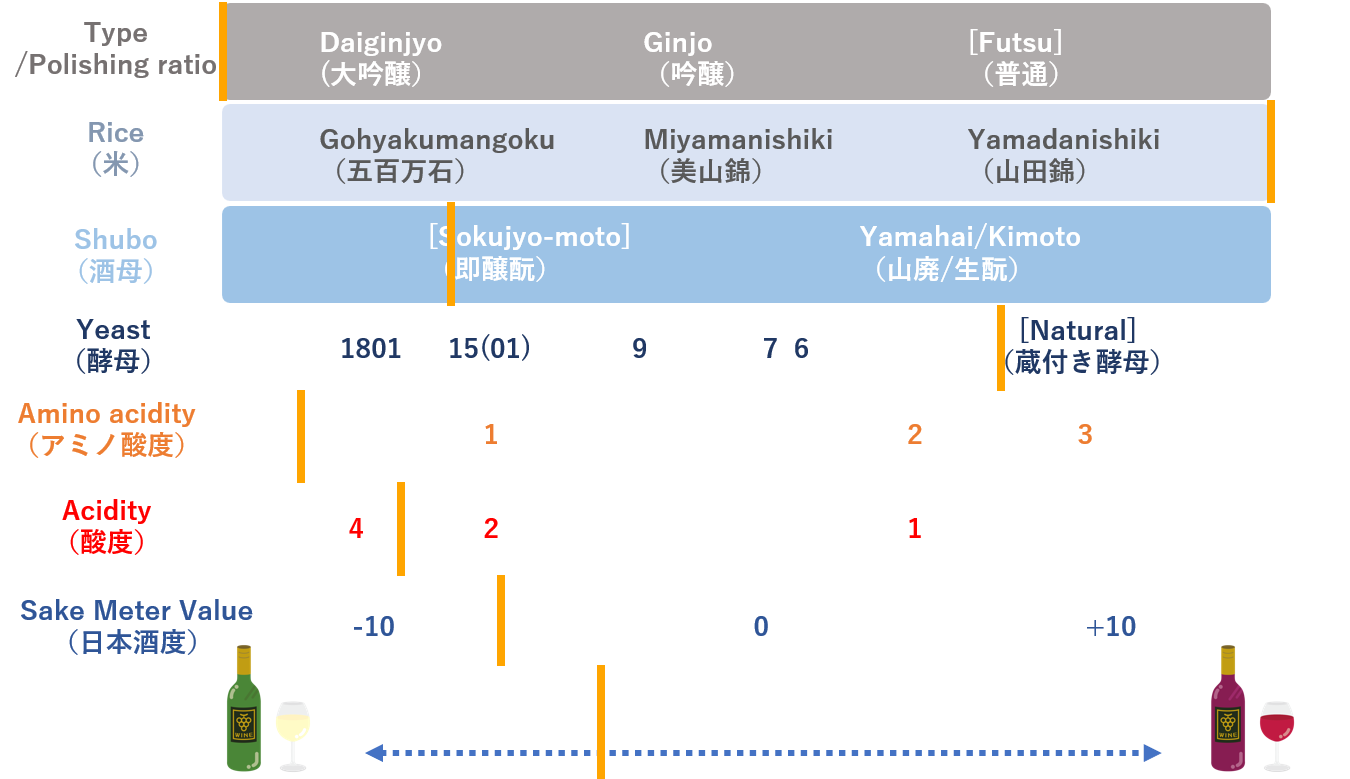
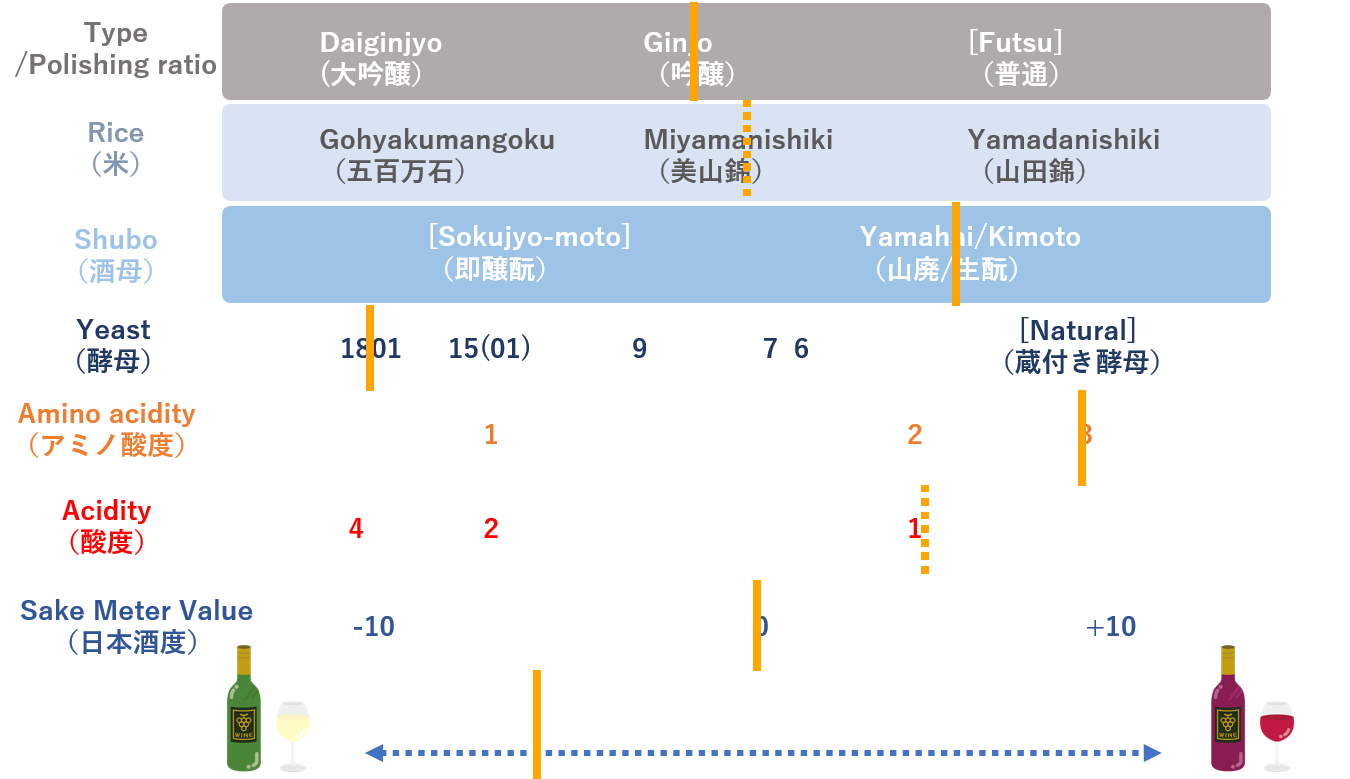
line alighmented

diff --git a/original-advanced-straightline-diagram-creation.py b/original-advanced-straightline-diagram-creation.py
@@ -1,13 +1,28 @@
 from PIL import Image, ImageDraw
 
-type = 76  # 15:大吟醸 45:吟醸 52:特別純米 60:純米 76:普通
-rice = 80  # 18:山田錦 50:美山錦 80:五百万石
-fstarter = 78  # 30:速醸酛 70:山廃 78:生酛
+saketype = 45  # 15:大吟醸 45:吟醸 52:特別純米 60:純米 76:普通
+saketype_line = "solid"
+
+rice = 50  # 18:山田錦 50:美山錦 80:五百万石
+rice_line ="dotted"
+
+fstarter = 70  # 30:速醸酛 70:山廃 78:生酛
+fstarter_line = "solid"
+
 yeast = 53  # 12:1801 23:15(01) 38:9 50:7 53:6 
-ForR = 33  # 0:Fruit 100:Rice
+yeast_line = "solid"
+
+ForR = 100  # 0:Fruit 100:Rice
+
 amino = 82  # 26:1 66:2 82:3
+amino_line = "solid"
+
 acid = 67  # 13:4 15:3 26:2 67:1 
+acid_line = "dotted"
+
 svm = 51  # 15:-10 51:0 86:10
+svm_line = "solid"
+
 DorS = 30  # 0:Dry 100:Sweet
 
 # ラインの一番左のピクセル
@@ -57,14 +72,14 @@ def draw_custom_lines(image_path, lines):
 
 # 描くラインをリストで提供
 lines = [
-    (av_line_start_left+type*av_line_add, 2, av_line_start_left+type*av_line_add, 100, "solid", 8),  # Dotted line from (start-tupple) to (end-tupple) with thickness 8
-    (av_line_start_left+rice*av_line_add, 100, av_line_start_left+rice*av_line_add, 202, "dotted", 8),
-    (av_line_start_left+fstarter*av_line_add, 202, av_line_start_left+fstarter*av_line_add, 305, "solid", 8), 
-    (av_line_start_left+yeast*av_line_add, 305, av_line_start_left+yeast*av_line_add, 398, "solid", 8),
+    (av_line_start_left+saketype*av_line_add, 2, av_line_start_left+saketype*av_line_add, 100, saketype_line, 8),  # Dotted line from (start-tupple) to (end-tupple) with thickness 8
+    (av_line_start_left+rice*av_line_add, 100, av_line_start_left+rice*av_line_add, 202, rice_line, 8),
+    (av_line_start_left+fstarter*av_line_add, 202, av_line_start_left+fstarter*av_line_add, 305, fstarter_line, 8), 
+    (av_line_start_left+yeast*av_line_add, 305, av_line_start_left+yeast*av_line_add, 398, yeast_line, 8),
     (av_line_start_left+ForR*av_line_add, 398, av_line_start_left+ForR*av_line_add, 515, "solid", 8),
-    (av_line_start_left+amino*av_line_add, 515, av_line_start_left+amino*av_line_add, 575, "solid", 8), 
-    (av_line_start_left+acid*av_line_add, 575, av_line_start_left+acid*av_line_add, 635, "solid", 8),
-    (av_line_start_left+svm*av_line_add, 635, av_line_start_left+svm*av_line_add, 695, "solid", 8),
+    (av_line_start_left+amino*av_line_add, 515, av_line_start_left+amino*av_line_add, 575, amino_line, 8), 
+    (av_line_start_left+acid*av_line_add, 575, av_line_start_left+acid*av_line_add, 635, acid_line, 8),
+    (av_line_start_left+svm*av_line_add, 635, av_line_start_left+svm*av_line_add, 695, svm_line, 8),
     (av_line_start_left+DorS*av_line_add, 695, av_line_start_left+DorS*av_line_add, 800, "solid", 8),
 ]
 

diff --git a/wine-advanced-straightline-diagram-creation.py b/wine-advanced-straightline-diagram-creation.py
@@ -1,5 +1,43 @@
 from PIL import Image, ImageDraw
 
+saketype = 45  # 15:大吟醸 45:吟醸 52:特別純米 60:純米 76:普通
+saketype_line = "solid"
+
+rice = 50  # 18:五百万石 50:美山錦 80:山田錦
+rice_line ="dotted"
+
+fstarter = 70  # 30:速醸酛 70:山廃 78:生酛
+fstarter_line = "solid"
+
+yeast = 12  # 12:1801 23:15(01) 38:9 50:7 53:6 
+yeast_line = "solid"
+
+ForR = 100  # 0:Fruit 100:Rice
+
+amino = 82  # 26:1 66:2 82:3
+amino_line = "solid"
+
+acid = 67  # 13:4 15:3 26:2 67:1 
+acid_line = "dotted"
+
+svm = 51  # 15:-10 51:0 86:10
+svm_line = "solid"
+
+DorS = 30  # 0:Dry 100:Sweet
+
+# ラインの一番左のピクセル
+av_line_start_left = 222
+# ラインの一番右のピクセル
+av_line_end_right = 1270
+# ラインの一番左から一番右までの長さ
+av_line_length = av_line_end_right - av_line_start_left
+# パーセンテージを掛けて長さを計算するための定数
+av_line_add = av_line_length/100
+
+# 酵母の配置が少し右にずれているので、それを修正するためのオフセット
+yeast_offset = 22
+
+
 def draw_custom_lines(image_path, lines):
     """
     Draw lines with custom settings on an image.
@@ -35,15 +73,17 @@ def draw_custom_lines(image_path, lines):
         img.save("advanced_wine-lined.png")
         img.show()
 
-# Example usage
+
+# 描くラインをリストで提供
 lines = [
-    (222, 2, 222, 100, "solid", 8),  # Dotted line from (start-tupple) to (end-tupple) with thickness 8
-    (1270, 100, 1270, 202, "solid", 8),
-    (450, 202, 450, 305, "solid", 8), 
-    (1000, 305, 1000, 390, "solid", 8),
-    (300, 390, 300, 482, "solid", 8),
-    (400, 482, 400, 575, "solid", 8), 
-    (500, 575, 500, 665, "solid", 8),
-    (600, 665, 600, 850, "solid", 8),
+    (av_line_start_left+saketype*av_line_add, 2, av_line_start_left+saketype*av_line_add, 100, saketype_line, 8),  # Dotted line from (start-tupple) to (end-tupple) with thickness 8
+    (av_line_start_left+rice*av_line_add, 100, av_line_start_left+rice*av_line_add, 202, rice_line, 8),
+    (av_line_start_left+fstarter*av_line_add, 202, av_line_start_left+fstarter*av_line_add, 305, fstarter_line, 8), 
+    (av_line_start_left+yeast*av_line_add+yeast_offset, 305, av_line_start_left+yeast*av_line_add+yeast_offset, 390, yeast_line, 8),
+    (av_line_start_left+amino*av_line_add, 390, av_line_start_left+amino*av_line_add, 485, amino_line, 8), 
+    (av_line_start_left+acid*av_line_add, 485, av_line_start_left+acid*av_line_add, 580, acid_line, 8),
+    (av_line_start_left+svm*av_line_add, 580, av_line_start_left+svm*av_line_add, 670, svm_line, 8),
+    (av_line_start_left+DorS*av_line_add, 670, av_line_start_left+DorS*av_line_add, 780, "solid", 8),
 ]
+
 draw_custom_lines("advanced_wine.png", lines)

diff --git a/wine-basic-straightline-diagram-creation.py b/wine-basic-straightline-diagram-creation.py
@@ -1,5 +1,43 @@
 from PIL import Image, ImageDraw
 
+saketype = 45  # 15:大吟醸 45:吟醸 52:特別純米 60:純米 76:普通
+saketype_line = "solid"
+
+rice = 80  # 18:五百万石 50:美山錦 80:山田錦
+rice_line ="dotted"
+
+fstarter = 70  # 30:速醸酛 70:山廃 78:生酛
+fstarter_line = "solid"
+
+yeast = 50  # 12:1801 23:15(01) 38:9 50:7 53:6 
+yeast_line = "solid"
+
+ForR = 100  # 0:Fruit 100:Rice
+
+amino = 82  # 26:1 66:2 82:3
+amino_line = "solid"
+
+acid = 67  # 13:4 15:3 26:2 67:1 
+acid_line = "dotted"
+
+svm = 51  # 15:-10 51:0 86:10
+svm_line = "solid"
+
+DorS = 30  # 0:Dry 100:Sweet
+
+# ラインの一番左のピクセル
+av_line_start_left = 222
+# ラインの一番右のピクセル
+av_line_end_right = 1270
+# ラインの一番左から一番右までの長さ
+av_line_length = av_line_end_right - av_line_start_left
+# パーセンテージを掛けて長さを計算するための定数
+av_line_add = av_line_length/100
+
+# 酵母の配置が少し右にずれているので、それを修正するためのオフセット
+yeast_offset = 22
+
+
 def draw_custom_lines(image_path, lines):
     """
     Draw lines with custom settings on an image.
@@ -35,11 +73,13 @@ def draw_custom_lines(image_path, lines):
         img.save("basic_wine-lined.png")
         img.show()
 
-# Example usage
+
+# 描くラインをリストで提供
 lines = [
-    (225, 14, 225, 124, "solid", 8),  # Dotted line from (start-tupple) to (end-tupple) with thickness 8
-    (1360, 124, 1360, 234, "solid", 8),
-    (500, 234, 500, 344, "solid", 8), 
-    (1000, 344, 1000, 550, "solid", 8) 
+    (av_line_start_left+saketype*av_line_add, 2, av_line_start_left+saketype*av_line_add, 100, saketype_line, 8),  # Dotted line from (start-tupple) to (end-tupple) with thickness 8
+    (av_line_start_left+rice*av_line_add, 100, av_line_start_left+rice*av_line_add, 202, rice_line, 8),
+    (av_line_start_left+fstarter*av_line_add, 202, av_line_start_left+fstarter*av_line_add, 305, fstarter_line, 8), 
+    (av_line_start_left+DorS*av_line_add, 325, av_line_start_left+DorS*av_line_add, 550, "solid", 8),
 ]
+
 draw_custom_lines("basic_wine.png", lines)

diff --git a/original-basic-straightline-diagram-creation.py b/original-basic-straightline-diagram-creation.py
@@ -1,5 +1,41 @@
 from PIL import Image, ImageDraw
 
+saketype = 45  # 15:大吟醸 45:吟醸 52:特別純米 60:純米 76:普通
+saketype_line = "solid"
+
+rice = 50  # 18:山田錦 50:美山錦 80:五百万石
+rice_line ="dotted"
+
+fstarter = 70  # 30:速醸酛 70:山廃 78:生酛
+fstarter_line = "solid"
+
+yeast = 53  # 12:1801 23:15(01) 38:9 50:7 53:6 
+yeast_line = "solid"
+
+ForR = 100  # 0:Fruit 100:Rice
+
+amino = 82  # 26:1 66:2 82:3
+amino_line = "solid"
+
+acid = 67  # 13:4 15:3 26:2 67:1 
+acid_line = "dotted"
+
+svm = 51  # 15:-10 51:0 86:10
+svm_line = "solid"
+
+DorS = 30  # 0:Dry 100:Sweet
+
+# ラインの一番左のピクセル
+av_line_start_left = 222
+# ラインの一番右のピクセル
+av_line_end_right = 1270
+# ラインの一番左から一番右までの長さ
+av_line_length = av_line_end_right - av_line_start_left
+# パーセンテージを掛けて長さを計算するための定数
+av_line_add = av_line_length/100
+
+# basic版のライン位置オフセット（どれだけ右寄りにoffset = 15
+
 def draw_custom_lines(image_path, lines):
     """
     Draw lines with custom settings on an image.
@@ -35,11 +71,12 @@ def draw_custom_lines(image_path, lines):
         img.save("basic-lined.png")
         img.show()
 
-# Example usage
+# 描くラインをリストで提供
 lines = [
-    (225, 14, 225, 124, "solid", 8),  # Dotted line from (start-tupple) to (end-tupple) with thickness 8
-    (1360, 124, 1360, 233, "solid", 8),
-    (500, 233, 500, 344, "solid", 8), 
-    (1000, 344, 1000, 550, "solid", 8) 
+    (av_line_start_left+saketype*av_line_add, 2, av_line_start_left+saketype*av_line_add, 100, saketype_line, 8),  # Dotted line from (start-tupple) to (end-tupple) with thickness 8
+    (av_line_start_left+rice*av_line_add, 100, av_line_start_left+rice*av_line_add, 202, rice_line, 8),
+    (av_line_start_left+fstarter*av_line_add, 202, av_line_start_left+fstarter*av_line_add, 305, fstarter_line, 8), 
+    (av_line_start_left+ForR*av_line_add, 340, av_line_start_left+ForR*av_line_add, 460, "solid", 8),
 ]
+
 draw_custom_lines("basic.png", lines)
